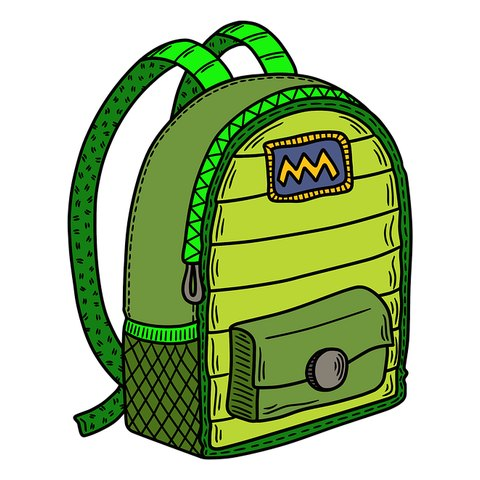
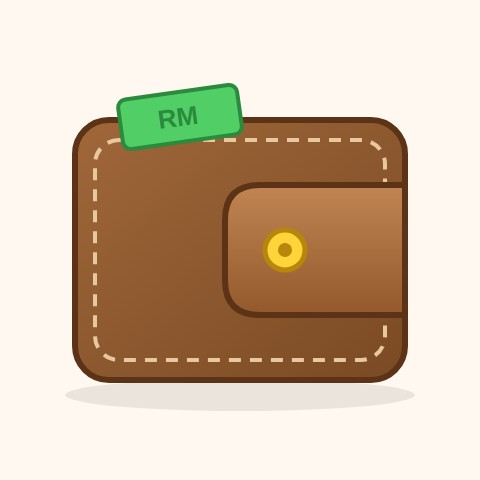
مِحْفَظَةٌ = dompet: gambar & terjemahan
Claude-Session: https://claude.ai/code/session_018YvGYxHE12r8rZy9nwMvn9

diff --git a/guru.html b/guru.html
@@ -335,7 +335,7 @@ const W=[
  {id:'jaurab',ar:'جَوْرَبٌ',rm:'jaurab',ms:'stoking',f:0},
  {id:'mindil',ar:'مِنْدِيْلٌ',rm:'mindil',ms:'sapu tangan',f:0},
  {id:'khimar',ar:'خِمَارٌ',rm:'khimar',ms:'tudung',f:0},
- {id:'mihfazah',ar:'مِحْفَظَةٌ',rm:'mihfazah',ms:'beg',f:1},
+ {id:'mihfazah',ar:'مِحْفَظَةٌ',rm:'mihfazah',ms:'dompet',f:1},
  {id:'nazzarah',ar:'نَظَّارَةٌ',rm:'nazzarah',ms:'cermin mata',f:1},
  {id:'rabtah',ar:'رَبْطَةُ الْعُنُقِ',rm:"rabtatul 'unuq",ms:'tali leher',f:1}
 ];

diff --git a/lumba.html b/lumba.html
@@ -161,7 +161,7 @@ const W=[
  {id:'jaurab',ar:'جَوْرَبٌ',rm:'jaurab',ms:'stoking',f:0},
  {id:'mindil',ar:'مِنْدِيْلٌ',rm:'mindil',ms:'sapu tangan',f:0},
  {id:'khimar',ar:'خِمَارٌ',rm:'khimar',ms:'tudung',f:0},
- {id:'mihfazah',ar:'مِحْفَظَةٌ',rm:'mihfazah',ms:'beg',f:1},
+ {id:'mihfazah',ar:'مِحْفَظَةٌ',rm:'mihfazah',ms:'dompet',f:1},
  {id:'nazzarah',ar:'نَظَّارَةٌ',rm:'nazzarah',ms:'cermin mata',f:1},
  {id:'rabtah',ar:'رَبْطَةُ الْعُنُقِ',rm:"rabtatul 'unuq",ms:'tali leher',f:1}
 ];

diff --git a/rumusan.html b/rumusan.html
@@ -292,7 +292,7 @@ const W=[
  {id:'jaurab',ar:'جَوْرَبٌ',rm:'jaurab',ms:'stoking',f:0},
  {id:'mindil',ar:'مِنْدِيْلٌ',rm:'mindil',ms:'sapu tangan',f:0},
  {id:'khimar',ar:'خِمَارٌ',rm:'khimar',ms:'tudung',f:0},
- {id:'mihfazah',ar:'مِحْفَظَةٌ',rm:'mihfazah',ms:'beg',f:1},
+ {id:'mihfazah',ar:'مِحْفَظَةٌ',rm:'mihfazah',ms:'dompet',f:1},
  {id:'nazzarah',ar:'نَظَّارَةٌ',rm:'nazzarah',ms:'cermin mata',f:1},
  {id:'rabtah',ar:'رَبْطَةُ الْعُنُقِ',rm:"rabtatul 'unuq",ms:'tali leher',f:1}
 ];
